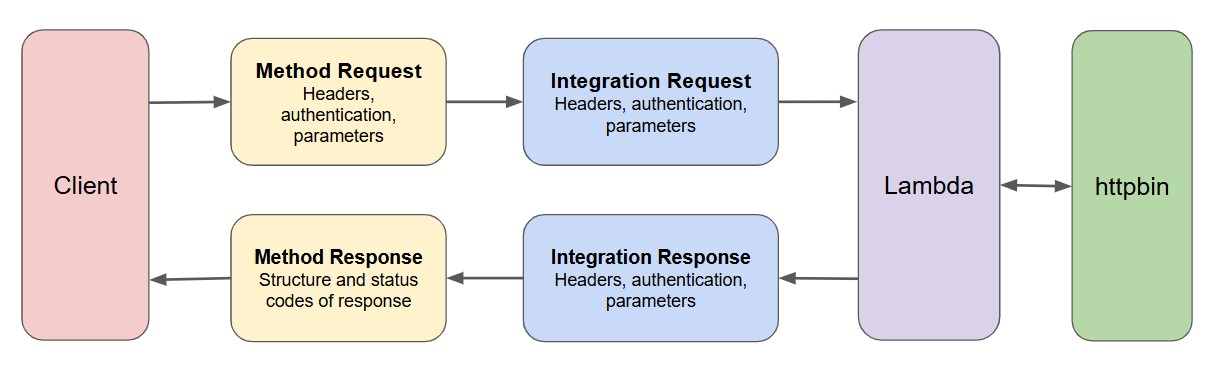
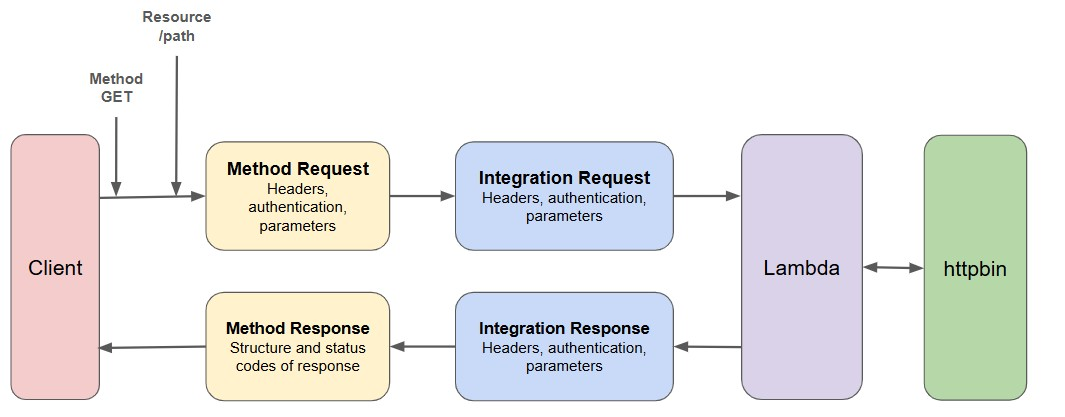
pulumi api gateway pictures

diff --git a/content/automation/pulumi-aws-api-gateway.md b/content/automation/pulumi-aws-api-gateway.md
@@ -139,10 +139,12 @@ rest_api = aws.apigateway.RestApi(
 ### API resources
 
 Next we need to create some resources. These are three things:
+
+- Resource: This represents 
+- Method: 
+- Integration:
+
 ![API Gateway logical view](/images/pulumi-api-gateway-logical.jpg)
-Resource
-Method
-Integration
 
 
 ```Python
